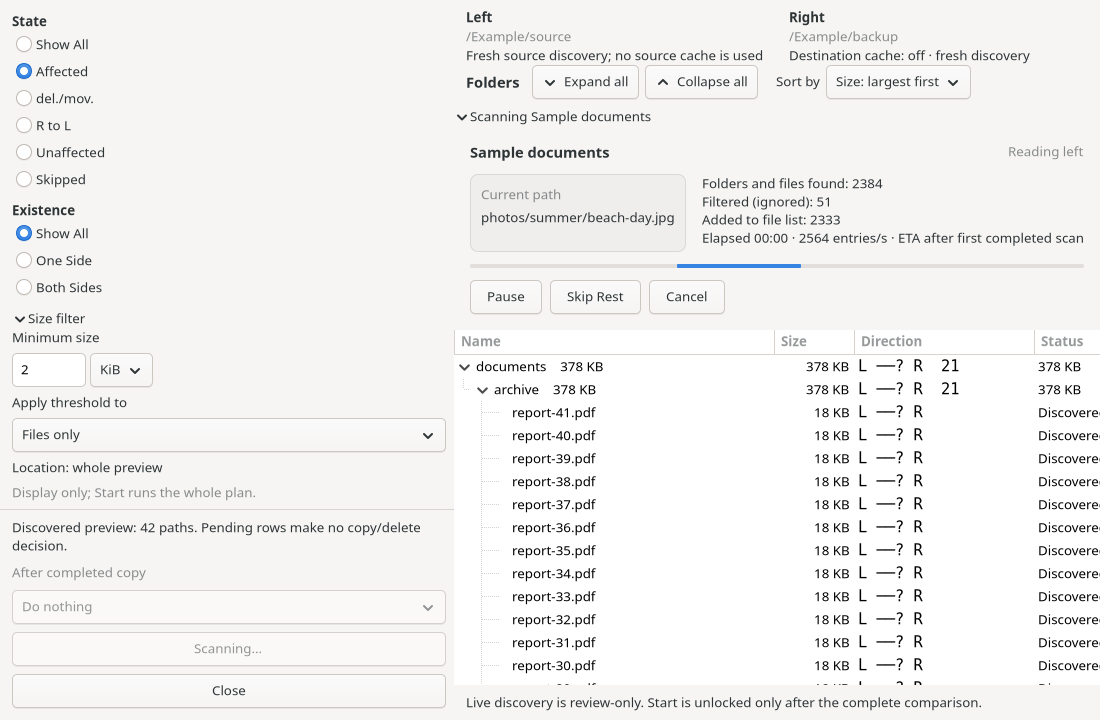
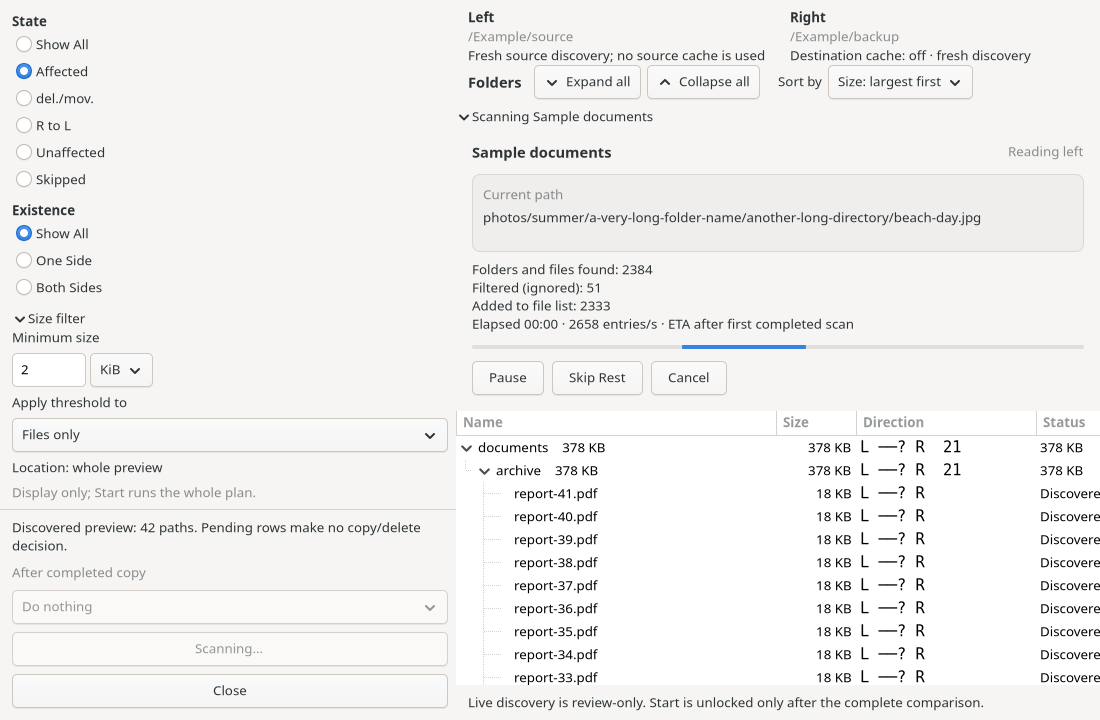
Stabilize preview layout and add reviewed folder deletions

diff --git a/tests/test_ui.py b/tests/test_ui.py
@@ -863,7 +863,7 @@ def test_copy_progress_window_shows_bytes_current_file_and_operation_fallback(tm
     assert seen["delete_move_overall"] == 0.5
 
 
-def test_copy_path_uses_two_lines_without_resizing_the_window(tmp_path, monkeypatch):
+def test_copy_path_uses_one_bounded_line_without_resizing_the_window(tmp_path, monkeypatch):
     from gi.repository import Pango
 
     monkeypatch.setenv("OFS_HOME", str(tmp_path / "home"))
@@ -890,7 +890,7 @@ def test_copy_path_uses_two_lines_without_resizing_the_window(tmp_path, monkeypa
     assert App().run(None) == 0
     assert seen["short"] == seen["long"]
     assert seen["path"] == seen["tooltip"] == long_path
-    assert seen["lines"] == 2
+    assert seen["lines"] == 1
     assert seen["ellipsize"] == Pango.EllipsizeMode.MIDDLE
 
 
@@ -1426,7 +1426,7 @@ def test_scan_counts_stay_for_both_sides(tmp_path, monkeypatch):
     assert "ETA after first completed scan" in seen["counts"]
     assert seen["place"] == "album"
     assert seen["reading"] == "Reading right"
-    assert seen["path_wrap"] is True
+    assert seen["path_wrap"] is False
     assert seen["skip"].startswith("Skipping rest")
     assert seen["skipping"] is True
     assert seen["skip_enabled"] is False
@@ -1470,7 +1470,7 @@ def test_scan_path_truncation_keeps_the_dialog_height_stable(tmp_path, monkeypat
     assert seen["short_height"] == seen["long_height"]
     assert seen["full_path"] == seen["tooltip"] == long_path
     assert seen["ellipsize"] == Pango.EllipsizeMode.MIDDLE
-    assert seen["lines"] == 2
+    assert seen["lines"] == 1
 
 
 def test_different_profiles_scan_in_parallel_but_same_profile_cannot_duplicate(tmp_path, monkeypatch):
@@ -1600,7 +1600,9 @@ def test_preview_actions_stay_visible_and_folder_controls_have_a_toolbar(tmp_pat
     assert 0 < seen["close_bottom"] <= seen["window_height"]
 
 
-def test_scan_totals_share_the_row_with_current_path(tmp_path, monkeypatch):
+def test_scan_path_is_one_line_fixed_width_with_stats_below(tmp_path, monkeypatch):
+    from ofs.walk import WalkStats
+
     monkeypatch.setenv("OFS_HOME", str(tmp_path / "home"))
     monkeypatch.setenv("OFS_APP_ID", "com.ofs.LocalSyncTestScanInfoLayout")
     seen = {}
@@ -1612,21 +1614,34 @@ def test_scan_totals_share_the_row_with_current_path(tmp_path, monkeypatch):
     class App(SfsApplication):
         def do_activate(self):
             owner = MainWindow(self)
-            scan = ScanWindow(owner)
+            scan = ScanWindow(owner, estimates={"activation": (50000, 20)})
+            scan.set_default_size(900, 400)
             scan.present()
-            settle()
-            seen["shared_row"] = scan.count_label.get_parent() is scan.scan_info
-            seen["path_shared"] = scan.file_label.get_parent().get_parent() is scan.scan_info
-            path_point = scan.file_label.translate_coordinates(scan, 0, 0)
+            path_box = scan.file_label.get_parent()
+            short = "short/file.txt"
+            long = "/".join(["an-extremely-long-directory-component"] * 90) + "/last-file-with-a-long-name.txt"
+            for marker, path, found in (("short", short, 23), ("long", long, 100000)):
+                scan.update_stats("activation", "Left", path, WalkStats(found, 18, found - 81))
+                settle()
+                seen[f"{marker}_width"] = path_box.get_width()
+                seen[f"{marker}_lines"] = scan.file_label.get_layout().get_line_count()
+                seen[f"{marker}_height"] = scan.file_label.get_height()
+            seen["no_wrap"] = not scan.file_label.get_wrap()
+            seen["bounded"] = scan.file_label.get_max_width_chars() <= 52
+            seen["ellipsized"] = scan.file_label.get_layout().is_ellipsized()
+            path_point = path_box.translate_coordinates(scan, 0, 0)
             count_point = scan.count_label.translate_coordinates(scan, 0, 0)
-            seen["totals_right"] = count_point[0] > path_point[0]
-            seen["totals_top"] = count_point[1] <= path_point[1]
+            seen["totals_below"] = count_point[1] >= path_point[1] + path_box.get_height()
             scan.allow_close()
             self.quit()
 
     assert App().run(None) == 0
-    assert seen["shared_row"] is True and seen["path_shared"] is True
-    assert seen["totals_right"] is True and seen["totals_top"] is True
+    assert seen["short_width"] == seen["long_width"]
+    assert seen["short_lines"] == seen["long_lines"] == 1
+    assert seen["short_height"] == seen["long_height"]
+    assert seen["no_wrap"] is True
+    assert seen["bounded"] is True and seen["ellipsized"] is True
+    assert seen["totals_below"] is True
 
 
 def test_exclusion_dialog_supports_editing_path_name_and_global_scope(tmp_path, monkeypatch):
@@ -1922,6 +1937,7 @@ def test_partial_scan_allows_exclusions_and_rescan_but_never_start(tmp_path, mon
             seen["guarded_copy"] = "copy_requested" not in seen
             preview._popup_folder("cache", 0, 0)
             seen["folder_actions"] = [button.get_label() for button in _buttons(preview._popover)]
+            seen["uniform_menu_font"] = all("monospace" not in button.get_css_classes() for button in _buttons(preview._popover))
             seen["rescan"] = None
             window._run_names = lambda names: seen.update(rescan=names)
             preview.start_button.emit("clicked")
@@ -1939,6 +1955,7 @@ def test_partial_scan_allows_exclusions_and_rescan_but_never_start(tmp_path, mon
     assert "Copy whole new folder…" not in seen["folder_actions"]
     assert "Add exclusion…" in seen["folder_actions"]
     assert "Filter sizes under this folder" in seen["folder_actions"]
+    assert seen["uniform_menu_font"] is True
     assert seen["rescan"] == {"partial job"}
 
 
@@ -2216,6 +2233,82 @@ def test_large_tree_updates_batches_and_retains_manual_collapse(tmp_path, monkey
     assert seen["ticks"] > 1
     assert seen["expanded_initially"] is True
     assert seen["collapsed_after"] is True
+
+
+def test_folder_delete_requires_scope_review_and_normal_deletion_safeguards(tmp_path, monkeypatch):
+    from ofs.review import Listed, deletion_violations, safety_text
+
+    monkeypatch.setenv("OFS_HOME", str(tmp_path / "home"))
+    monkeypatch.setenv("OFS_APP_ID", "com.ofs.LocalSyncTestFolderDeleteReview")
+    profile = Profile(
+        name="folder delete review", left="/sample/left", right="/sample/right",
+        mode=SyncMode.EXACT_MIRROR, never_delete_files=True,
+    )
+    rows = [
+        Listed(Change("data/keep.txt", Action.UNCHANGED, "same", 100), True, True),
+        Listed(Change("data/copy.txt", Action.COPY_LEFT_TO_RIGHT, "new", 700), True, False),
+        Listed(Change("data/conflict.tmp", Action.ASK, "size conflict", 600), True, True),
+        Listed(Change("data/out-of-scope.tmp", Action.SKIPPED, "profile filter", 50), True, True),
+        Listed(Change("outside/keep.txt", Action.UNCHANGED, "same", 20), True, True),
+    ]
+    seen = {}
+
+    class App(SfsApplication):
+        def do_activate(self):
+            owner = MainWindow(self)
+            preview = owner._preview(JobResult(profile, ScanResult([item.change for item in rows], listing=rows), None))
+            original = [(row.change.rel, row.change.action) for row in preview.rows]
+            dialog = preview._ask_folder_delete("data", "right")
+            labels = [item.get_text() for item in _widgets(dialog) if isinstance(item, Gtk.Label)]
+            seen["confirmation"] = "\n".join(labels)
+            next(button for button in _buttons(dialog) if button.get_label() == "Cancel").emit("clicked")
+            seen["cancel_preserved"] = [(row.change.rel, row.change.action) for row in preview.rows] == original
+
+            dialog = preview._ask_folder_delete("data", "right")
+            dialog.folder_delete_confirm_button.emit("clicked")
+            planned = {row.change.rel: row.change.action for row in preview.rows}
+            seen["right_deletes"] = sorted(rel for rel, action in planned.items() if action == Action.DELETE_RIGHT)
+            seen["unrelated_action"] = planned["outside/keep.txt"]
+            seen["skipped_action"] = planned["data/out-of-scope.tmp"]
+            seen["other_side_copy"] = planned["data/copy.txt"]
+
+            seen["warning"] = safety_text(profile, preview.rows)
+            original_safety = preview._safety
+
+            def retain_safety(*args, **kwargs):
+                seen["safety_window"] = original_safety(*args, **kwargs)
+                return seen["safety_window"]
+
+            preview._safety = retain_safety
+            preview._start()
+            safety = seen.get("safety_window")
+            if safety is None:
+                self.quit()
+                return
+            confirm = next(button for button in _buttons(safety) if button.get_label() == "Confirm Deletions")
+            seen["guarded_confirmation"] = not confirm.get_sensitive()
+            seen["not_started"] = not preview._running
+            next(button for button in _buttons(safety) if button.get_label() == "Do Not Continue").emit("clicked")
+
+            dialog = preview._ask_folder_delete("data", "left")
+            dialog.folder_delete_confirm_button.emit("clicked")
+            seen["left_deletes"] = sorted(
+                row.change.rel for row in preview.rows if row.change.action == Action.DELETE_LEFT
+            )
+            self.quit()
+
+    assert App().run(None) == 0
+    assert "2 in-scope files (700 B)" in seen["confirmation"]
+    assert "under data on Right" in seen["confirmation"]
+    assert "Nothing is deleted now" in seen["confirmation"]
+    assert seen["cancel_preserved"] is True
+    assert seen["right_deletes"] == ["data/conflict.tmp", "data/keep.txt"]
+    assert seen["unrelated_action"] == Action.UNCHANGED
+    assert seen["skipped_action"] == Action.SKIPPED
+    assert seen["other_side_copy"] == Action.COPY_LEFT_TO_RIGHT
+    assert seen["guarded_confirmation"] is True
+    assert seen["not_started"] is True
+    assert seen["left_deletes"] == ["data/conflict.tmp", "data/copy.txt", "data/keep.txt"]
 
 
 def test_row_actions_and_profile_delete(tmp_path, monkeypatch):

diff --git a/src/ofs/ui.py b/src/ofs/ui.py
@@ -94,10 +94,8 @@ def _group_parts(profile: Profile) -> tuple[str, ...]:
 
 
 def _fixed_path_label(text: str) -> Gtk.Label:
-    label = Gtk.Label(xalign=0, selectable=True, wrap=True, lines=2)
-    label.set_wrap_mode(Pango.WrapMode.WORD_CHAR)
+    label = Gtk.Label(xalign=0, selectable=True, wrap=False, lines=1, width_chars=52, max_width_chars=52)
     label.set_ellipsize(Pango.EllipsizeMode.MIDDLE)
-    label.set_max_width_chars(76)
     label.set_tooltip_text(text)
     label.set_text(text)
     return label
@@ -2606,6 +2604,82 @@ class Preview(Gtk.Window):
             return
         self.owner._confirm_new_folder(self.job.profile, relative)
 
+    def _folder_delete_candidates(self, folder: str, side: str) -> list[Listed]:
+        prefix = folder.replace("\\", "/").strip().strip("/") + "/"
+        return [
+            item for item in self.rows
+            if item.change.rel.startswith(prefix)
+            and (item.on_left if side == "left" else item.on_right)
+            and item.change.action != Action.SKIPPED
+        ]
+
+    def _ask_folder_delete(self, folder: str, side: str) -> Gtk.Window | None:
+        if self.partial or self._scan_active or not self._scan_complete:
+            self.detail.set_text("Complete the scan before adding folder deletions to a reviewed plan.")
+            return None
+        if self._running:
+            self.detail.set_text("Wait for the current operation before changing folder deletions.")
+            return None
+        selected = self._folder_delete_candidates(folder, side)
+        target = side.capitalize()
+        window = Gtk.Window(transient_for=self, modal=True, title="Add Folder Deletions to Plan")
+        window.set_default_size(620, 250)
+        box = Gtk.Box(orientation=Gtk.Orientation.VERTICAL, spacing=12)
+        for edge in ("start", "end", "top", "bottom"):
+            getattr(box, f"set_margin_{edge}")(18)
+        count = len(selected)
+        message = (
+            f"Add {count} in-scope files ({format_bytes(sum(item.change.size for item in selected))}) "
+            f"under {folder} on {target} to the deletion plan?"
+        )
+        box.append(Gtk.Label(label=message, xalign=0, wrap=True))
+        warning = Gtk.Label(
+            xalign=0, wrap=True,
+            label="Nothing is deleted now. Review the changed rows, then Start opens the normal deletion confirmation. All Older recovery and deletion safeguards still apply.",
+        )
+        box.append(warning)
+        buttons = Gtk.Box(spacing=8, halign=Gtk.Align.END)
+        cancel = Gtk.Button(label="Cancel")
+        cancel.connect("clicked", lambda *_args: window.close())
+        confirm = Gtk.Button(label="Add Deletions to Plan", css_classes=["destructive-action"])
+        window.folder_delete_confirm_button = confirm
+        confirm.set_sensitive(bool(selected))
+
+        def add_to_plan(*_args) -> None:
+            if self._delete_folder_files(folder, side):
+                window.close()
+
+        confirm.connect("clicked", add_to_plan)
+        buttons.append(cancel)
+        buttons.append(confirm)
+        box.append(buttons)
+        window.set_child(box)
+        window.set_default_widget(cancel)
+        window.present()
+        return window
+
+    def _delete_folder_files(self, folder: str, side: str) -> bool:
+        if self.partial or self._scan_active or not self._scan_complete or self._running:
+            self.detail.set_text("A current, complete, idle preview is required before changing the folder-deletion plan.")
+            return False
+        selected = self._folder_delete_candidates(folder, side)
+        if not selected:
+            self.detail.set_text(f"No known in-scope files under {folder} on {side}; nothing was added to the plan.")
+            return False
+        action = Action.DELETE_LEFT if side == "left" else Action.DELETE_RIGHT
+        for item in selected:
+            item.change = Change(
+                item.change.rel,
+                action,
+                "chosen folder deletion in preview",
+                item.change.size,
+            )
+        count = len(selected)
+        total = sum(item.change.size for item in selected)
+        self._refill()
+        self.detail.set_text(f"Added {count} folder deletions ({format_bytes(total)}) on {side}. Review them, then Start for the normal deletion confirmation.")
+        return True
+
     def _popup_folder(self, rel: str, x: float, y: float) -> None:
         if self._popover is not None:
             self._popover.unparent()
@@ -2623,6 +2697,8 @@ class Preview(Gtk.Window):
         ]) + [
             ("L ──▶ R", "Copy this folder left to right", lambda: self._set_folder_direction(rel, "right")),
             ("L ◀── R", "Copy this folder right to left", lambda: self._set_folder_direction(rel, "left")),
+            ("Delete folder files on Right…", "Add known right-side files to the reviewed deletion plan; nothing is deleted now", lambda: self._ask_folder_delete(rel, "right")),
+            ("Delete folder files on Left…", "Add known left-side files to the reviewed deletion plan; nothing is deleted now", lambda: self._ask_folder_delete(rel, "left")),
             ("Open left folder", "", lambda: open_uri(Path(self.job.profile.left) / rel)),
             ("Open right folder", "", lambda: open_uri(Path(self.job.profile.right) / rel)),
             ("Add exclusion…", "Choose profile/global, a relative path or name, and edit the rule", lambda: self._ask_exclusion(rel, folder=True)),
@@ -2633,7 +2709,6 @@ class Preview(Gtk.Window):
             button = Gtk.Button(label=text)
             if tip:
                 button.set_tooltip_text(tip)
-                button.add_css_class("monospace")
             button.connect("clicked", lambda _b, fn=callback: (popover.popdown(), fn()))
             box.append(button)
         popover.set_child(box)
@@ -2673,7 +2748,6 @@ class Preview(Gtk.Window):
             button = Gtk.Button(label=text)
             if tip:
                 button.set_tooltip_text(tip)
-                button.add_css_class("monospace")
             button.connect("clicked", lambda _b, fn=callback: (popover.popdown(), fn()))
             box.append(button)
         popover.set_child(box)
@@ -3200,10 +3274,8 @@ class ScanWindow(Gtk.Window):
         for side in ("start", "end", "top", "bottom"):
             getattr(root, f"set_margin_{side}")(16)
         root.append(heading)
-        self.scan_info = Gtk.Box(spacing=16)
+        self.scan_info = Gtk.Box(orientation=Gtk.Orientation.VERTICAL, spacing=8)
         path_box.set_hexpand(True)
-        self.count_label.set_hexpand(True)
-        self.count_label.set_valign(Gtk.Align.START)
         self.scan_info.append(path_box)
         self.scan_info.append(self.count_label)
         root.append(self.scan_info)

diff --git a/docs/spec.md b/docs/spec.md
@@ -52,7 +52,7 @@ In the tree now:
 - Global exclusions in Settings, ignored totally on every profile. The old defaults apply until that list is saved. Per-profile minimum and maximum size and age. Files outside those limits are skipped: listed under Skipped, not copied, and not deleted. `Older` keeps one replaced file, or the number set on the profile, and drops the oldest beyond that.
 - A scan window while the folders are read: current profile/path, discovered, filtered, and added counts, pause, Skip Rest, and Cancel. Each profile has independent controls; skipping or canceling one does not stop unrelated parallel scans. Skip Rest opens only a review-only partial comparison for exclusion editing and Rescan; Cancel produces no preview. Neither writes a copy log.
 - Comparison window: a folder tree with size and an arrow for direction, filters, per-side copy/move/delete totals, file and folder right-click, Start, the three-way deletion confirmation with a two-minute continue-without-deletions timeout, pause and cancel between files, the results window, and one log file per confirmed copy.
-- From a file or folder, **Add exclusion…** opens editable profile/global scope and full-relative-path/name matching options. Ignore for this run remains temporary and separate. Files retain comparison, direction, unchanged, and revert actions; folders can also set the review size-filter scope or point every planned file under them. Compare uses `meld` unless Settings or `OFS_COMPARE` names another command.
+- From a file or folder, **Add exclusion…** opens editable profile/global scope and full-relative-path/name matching options. Ignore for this run remains temporary and separate. Files retain comparison, direction, unchanged, and revert actions; folders can also set the review size-filter scope or point every planned file under them. **Delete folder files on Left/Right…** first confirms relative folder, chosen side, count, and bytes, then converts known eligible file rows, including unchanged rows, to Delete actions. Profile-skipped and unrelated rows remain unchanged. Partial, scanning, and running previews are rejected. There is no direct recursive deletion: Start's review, Older recovery, all proportional/folder/never-delete safeguards, and apply/cache guards still apply. Compare uses `meld` unless Settings or `OFS_COMPARE` names another command.
 - Optional left and right volume labels. A scan refuses a folder that is not on that disk and continues with the next checked profile. Replace paths asks, then rewrites the checked profiles and removes their file databases.
 - A GNOME launcher named OFS starts this app. It is separate from the 32-bit program and does not use that program's DPI lock.
 - Global appearance settings are System, Light, and Dark, persisted in Settings `theme`. System is the backward-compatible default. Apply the preference at startup and when saving Settings; use GTK's per-application dark preference and follow the exposed desktop color-scheme setting where available without changing host desktop settings. All new and older themes use normal GTK theming rather than custom light-only hardcoded window backgrounds.
@@ -193,7 +193,7 @@ At completion, collapse scan details, retain its counts for optional expansion, 
 
 Scan stats and completion use the same default priority, avoiding the older idled callbacks starving behind animation/rendering. Late stats cannot revive completed controls. Copy progress and copy completion likewise retain FIFO priority. Keep application claims, preview retention, and cross-window power guards valid when the originating overview is closed using its retained application reference. Release large provisional maps on final adoption and release obsolete preview references on close.
 
-- The window names the profile and reading side in their own heading. A fixed-height, theme-aware path panel shows the path on one bounded, middle-truncated line so changing filename length does not resize the dialog. The full path stays as label/selectable text and in its tooltip for copying or reference. Discovered/filtered/added counts, elapsed time, speed, and ETA share the top information row to the path's right. Progress and controls use clear, even spacing. Detached embedded scan/copy windows are hidden as top-level widgets. Normal activation focuses/creates a MainWindow instead of presenting a childless operation window; it must not cancel active work.
+- The window names the profile and reading side in their own heading. A fixed-height, theme-aware path panel shows the path on one bounded, middle-truncated line so changing filename length does not resize the dialog. The full path stays as label/selectable text and in its tooltip for copying or reference. The current path uses a fixed character bound, a single nonwrapping line, and middle ellipsis; short and long paths retain the same allocation and the full text stays selectable and in the tooltip. Discovered/filtered/added counts, elapsed time, speed, and ETA are below the path rather than competing horizontally. Context-menu actions use the normal interface font regardless of tooltip presence. Progress and controls use clear, even spacing. Detached embedded scan/copy windows are hidden as top-level widgets. Normal activation focuses/creates a MainWindow instead of presenting a childless operation window; it must not cancel active work.
 - Combined counts stay on screen: folders and files discovered, rules filtered by Ignore Totally, and files added to the scan. Elapsed time and discovered entries/second are shown. Only complete scans save that profile's discovered count and duration in Settings. Repeat scans display a clearly approximate ETA using prior duration, measured pace, and expected remaining entries, excluding pauses. The first scan has no ETA; skipped/canceled scans do not replace an existing estimate.
 - Copy, move, and delete totals are shown on the comparison window after the scan.
 - Pause holds the walk between entries. Resume continues. Skip Rest, Cancel, and closing the window affect only their own profile's scan.

diff --git a/docs/usage.md b/docs/usage.md
@@ -68,7 +68,7 @@ The first scan with the option on records the current files and does not invent 
 
 One scanned profile opens this window **as soon as scanning begins**. The result tree fills in bounded batches while discovery proceeds. Pending entries identify metadata seen on the left, right, or both, but do not make a copy/delete decision yet. **Start and completion power choices remain disabled until the complete comparison is ready.** You can use Ignore for this run or Add to exclusions during discovery; the shared rules affect future walking, rows already queued, and the resulting plan. Temporary rules do not create an incomplete destination cache or first file-history baseline; cached destination metadata is filtered for the current listing. A cancelled/incomplete result cannot be applied directly.
 
-The scan controls share a collapsible panel above the tree. Current path occupies the left side of its information row, with discovered/filtered/added counts, elapsed time, speed, and ETA to its right. The panel collapses automatically at completion, but its final counts remain available by expanding it. Several profiles open a summary first, and each row has Preview. Completed non-copying live windows close when that combined summary appears.
+The scan controls share a collapsible panel above the tree. Current path is one bounded, middle-truncated line; the full text stays selectable and in its tooltip. Changing paths or counts does not resize it. Discovered/filtered/added counts, elapsed time, speed, and ETA are below the path. The panel collapses automatically at completion, but its final counts remain available by expanding it. Several profiles open a summary first, and each row has Preview. Completed non-copying live windows close when that combined summary appears.
 
 Starting a comparison copy keeps the tree visible instead of opening a separate comparison-progress window. The copy controls and byte/operation totals appear in another independently collapsible panel. Completed entries are marked **Copied**, **Moved**, or **Deleted** as each operation finishes and use subdued text rather than disappearing. This display does not modify or remove remaining planned operations. Filter and folder expansion behavior stay available. Failed or canceled partial operations are not falsely marked successful, and the normal results and fresh-scan Retry Failed flow remains.
 
@@ -82,6 +82,7 @@ Right-click also changes the plan:
 
 - **Add exclusion…** opens an editable dialog. Choose **This profile** or **Global exclusions (all profiles)**, and **Full relative path** or **Folder or file name (any location)**. The default is the selected full relative path, relative to each profile root. Switching match types suggests that path or its name; you can edit the rule before confirming. Global additions preserve existing rules and the global Ignore Totally / Don't Copy mode. During a live scan, the new rule applies to displayed, queued, future, and finally adopted rows. Other in-flight scans retain their starting global rules and adopt it on their next scan. `*.tmp` matches a name in any folder. A path such as `cache/tmp` matches that folder and everything under it. Imported 5.71 semicolon and NBSP-separated lists are treated as separate masks. `**/.venv` matches both a root-level and a nested `.venv`; `*/cache` likewise covers a top-level or nested `cache` and everything under it. A trailing slash still means the whole folder. A lone `*` in an imported exclusion list does not hide the tree.
 - The preview opens maximized. If restored to a smaller window, only filters scroll; Files shown, power options, Start, and Close stay pinned. The **Folders** toolbar holds **Expand all / Collapse all** and **Name / Size** sorting. Size sorting orders folders by aggregate bytes and files by their sizes within each parent, keeping the hierarchy. The optional **Size filter** accepts a minimum value and B/KiB/MiB/GiB/TiB units, applies to files, folders, or both, and can cover the whole preview or only a selected folder via its context menu. Folder totals follow visible descendants. These size controls are display-only: they never remove items from the plan, and Start still runs the whole plan. Individual folder collapse/expansion survives filter and exclusion refreshes. Large comparisons retain 250-row GTK batches and abandon superseded rendering batches.
+- **Delete folder files on Left… / Right…** shows the target side, relative folder, known in-scope file count, and total bytes before doing anything to the plan. Cancel changes nothing. Add Deletions to Plan converts eligible known files, including unchanged ones on the chosen side, into reviewed per-file Delete operations; profile-skipped and unrelated files stay unchanged. This is not immediate recursive deletion. Review the rows, then Start uses all existing deletion confirmation, Older recovery, percentage/all-file/never-delete safeguards, and application-level cache invalidation. Partial, active, or currently copying previews cannot change the folder-deletion plan.
 - Ignore for this run, and ignore this extension for this run, drop rows without saving the profile.
 - Compare files runs the compare command with the left path and the right path. Both files have to exist. The command is `meld` until you change it in Settings. `OFS_COMPARE` overrides the saved command for one launch, and the two paths are added after whatever words you set (`nvim -d` works).
 - `L ──▶ R` and `L ◀── R` on a file override that row. The same two arrows on a folder point every planned file in that folder and below it. A copy or an undecided file becomes a copy. A move stays a move. A delete stays a delete, on the side the arrow points at. Leave unchanged overrides one file. Revert to scanned action puts the scan's choice back. Leave unchanged takes the row out of Start.

diff --git a/docs/features.md b/docs/features.md
@@ -84,8 +84,9 @@ Detailed behavior for the current source. For a shorter overview, see the [READM
 - **Filters change visibility, not what Start applies.** Start runs the whole remaining reviewed plan, including hidden rows.
 - File and folder context menus can open paths, launch the configured external comparison command (Meld by default), configure permanent exclusions, or ignore an item only for this run.
 - One-run actions cover an individual file, an extension, or a folder subtree without changing saved profile rules.
-- - The scan preview opens maximized, with two-column Left/Right totals, side-by-side current-path and scan statistics, and a Folders toolbar. Only filters scroll on a restored smaller window; counts, power options, Start, and Close stay pinned.
+- - The scan preview opens maximized, with two-column Left/Right totals, a bounded one-line current path with statistics below, and a Folders toolbar. Only filters scroll on a restored smaller window; counts, power options, Start, and Close stay pinned.
 - A display-only minimum-size filter targets files, folder aggregates, or both, across the whole preview or under a chosen folder. Name and ascending/descending size sorting reorder siblings without flattening the hierarchy. Neither one removes planned operations. Large result batched rendering remains active. for a known-new subtree. Check exactly one enabled one-way profile and choose a source subfolder, or right-click a discovered folder. Confirmation shows the exact source and matching destination. It does not compare those trees or use a partial scanned plan; it refuses a destination that already exists. The tree streams through the existing chunked copier into a temporary sibling, honoring masks, include/size/age rules, symlinks, ownership options, Pause, and Cancel. Empty folders and directory metadata are retained. Final installation uses Linux `renameat2(..., RENAME_NOREPLACE)` so a concurrently created destination is not overwritten. Failure/cancel removes incomplete output. Unless/until a normal rescan confirms both trees, counts and generated logs do not prove regular synchronization has run.
+- Folder context actions can add known in-scope Left- or Right-side files to the deletion plan after a side/path/count/byte confirmation. Unchanged eligible files are included; profile-skipped and unrelated files stay untouched. Nothing is deleted immediately or recursively; Start still requires review and all normal deletion safeguards and Older recovery apply.
 - Override a file or folder's direction, leave a file unchanged, or revert it to the scanned action.
 - `OFS_COMPARE` can override the saved comparison command for one launch. Deletion, size, and direction totals update when rows leave the plan.
 

diff --git a/CHANGELOG.md b/CHANGELOG.md
@@ -13,10 +13,11 @@ All notable changes to OFS are documented here. Entries are grouped by public re
 - Live discovery now explicitly shows cache off, fresh discovery, uncached override, and actual cache reuse per destination side. Copy status shows when metadata has been invalidated.
 - Scan-result exclusions offer editable profile/global scope and full-relative-path/name matching. Global additions preserve existing rules and mode and are rechecked against displayed, queued, future, and final live rows.
 - Display-only minimum-size filtering supports files, folders, or both and whole-preview/selected-folder scope. Name and size sorting retain the directory hierarchy and plan.
+- Folder results can add eligible known files on a chosen side to a reviewed per-file deletion plan after explicit scope/count confirmation, retaining all existing deletion safeguards and Older recovery.
 
 ### Changed
 
-- Scan comparisons open maximized, with two-column Left/Right headers and side-by-side current-path/statistics. Restored windows keep Start, Close, counts, and power choices pinned while filters scroll independently.
+- Scan comparisons open maximized, with two-column Left/Right headers. Restored windows keep Start, Close, counts, and power choices pinned while filters scroll independently. Current paths are single-line and width-bounded, with statistics below.
 
 - Exact Mirror automatic move inference now requires the same filename. Different basenames remain explicit copy and delete operations.
 
@@ -28,6 +29,7 @@ All notable changes to OFS are documented here. Entries are grouped by public re
 - Live rule sharing keeps the worker's final plan consistent with visible Ignore/Exclude actions; cached metadata and history-derived deletes are filtered appropriately.
 - Detached-overview copying retains profile lock/release and cross-window power safeguards; the common copy entry point directly refuses incomplete or partial scans.
 - Normal activation restores or creates the main OFS window rather than focusing an empty detached scan-control window.
+- Keep scan paths one line without resizing the path box from changing content, and keep context-menu action fonts consistent.
 
 ## [0.3.0] - 2026-11-12
 
